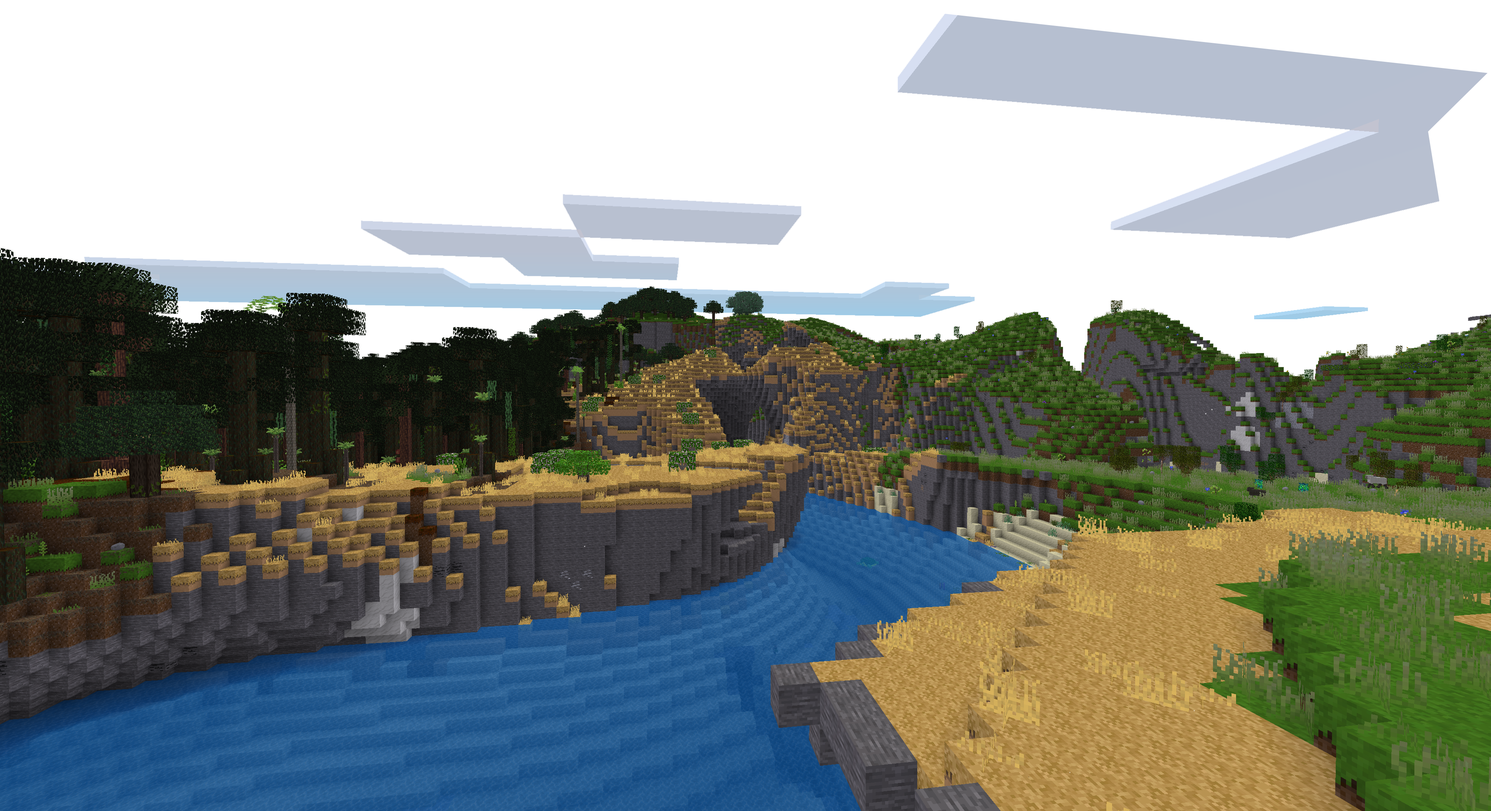
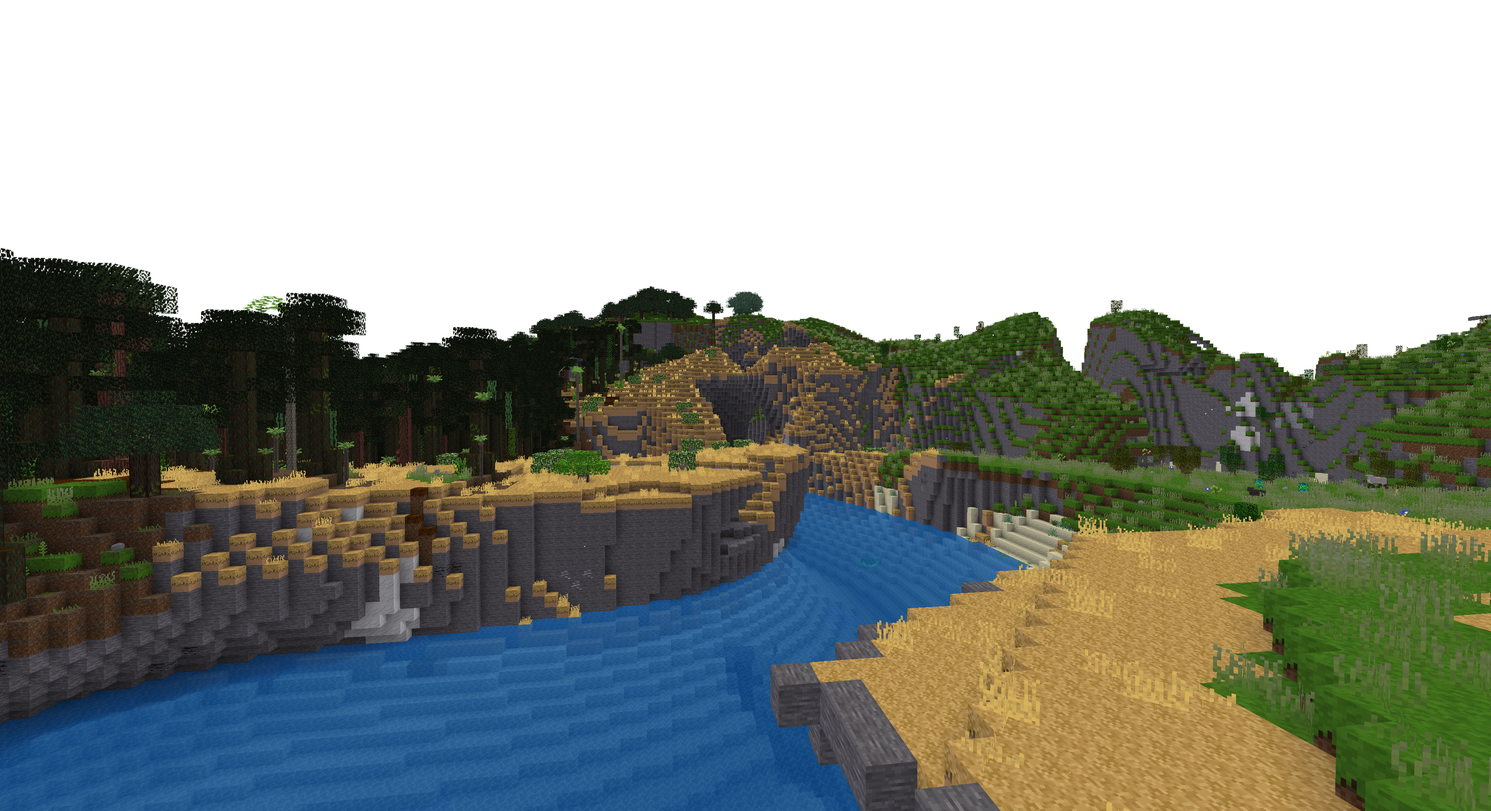
earth

Changed region(s): [[0.5931, 0.0, 0.9989, 0.3098], [0.0624, 0.2169, 0.6555, 0.4027], [0.8428, 0.3718, 0.9052, 0.4027]]

diff --git a/index.html b/index.html
@@ -134,7 +134,10 @@
             Odio euismod lacinia at quis risus sed vulputate odio ut. Commodo quis imperdiet massa tincidunt nunc pulvinar. Dui faucibus in ornare quam viverra. Integer malesuada nunc vel risus commodo viverra maecenas accumsan. Porttitor massa id neque aliquam vestibulum morbi blandit. Non tellus orci ac auctor augue mauris augue neque. Pellentesque sit amet porttitor eget dolor. Tempus quam pellentesque nec nam. Orci porta non pulvinar neque. Volutpat blandit aliquam etiam erat velit scelerisque. Porta lorem mollis aliquam ut porttitor. Tortor dignissim convallis aenean et tortor at risus. Risus quis varius quam quisque id diam vel. Consectetur adipiscing elit duis tristique sollicitudin nibh. Vitae auctor eu augue ut lectus.
          </p>
       </div>
-      <div> <img class="cave" src="images/earth.webp"> </div>
+      <div> 
+         <img class="cloudII clouds-earth" src="images/cloud.webp">
+         <img class="cave" src="images/earth.webp"> 
+      </div>
       </div>
       <footer class="main-footer">
          <ul class="social-icon">

diff --git a/styles/index.css b/styles/index.css
@@ -233,6 +233,22 @@ header {
 	}
 }
 
+@-webkit-keyframes clouds-anim-earth {
+	0% {
+		transform: translateY(0px) translateX(20px);
+		opacity: 30%;
+	}
+
+	90% {
+		opacity: 100%;
+	}
+
+	100% {
+		transform: translateY(25px) translateX(-500px);
+		opacity: 30%;
+	}
+}
+
 @-webkit-keyframes main-clouds-anim {
 	0% {
 		transform: translateX(20px);
@@ -259,6 +275,12 @@ header {
 .clouds {
 	-webkit-animation: main-clouds-anim 30s infinite;
 	animation: main-clouds-anim 30s infinite;
+	position: absolute;
+}
+
+.clouds-earth {
+	-webkit-animation: clouds-anim-earth 30s infinite;
+	animation: clouds-anim-earth 30s infinite;
 	position: absolute;
 }
 
